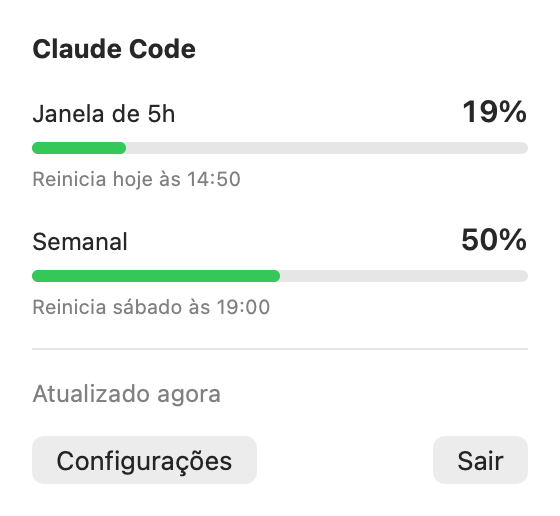
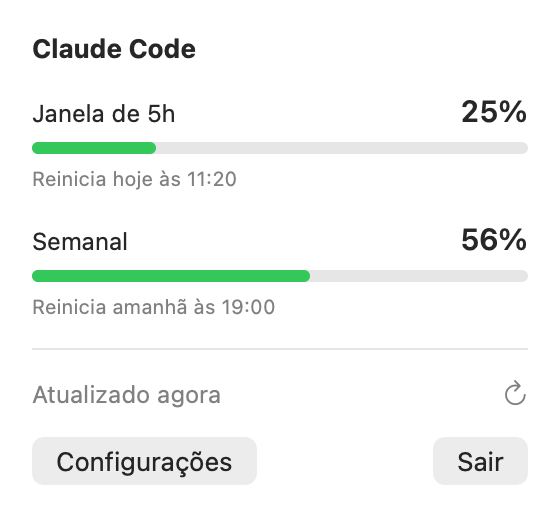
feat: adiciona botão Atualizar, erro da consulta e seção do servidor nas Configurações

diff --git a/Sources/UsageBar/Views/UsagePopover.swift b/Sources/UsageBar/Views/UsagePopover.swift
@@ -16,6 +16,9 @@ struct UsagePopover: View {
             if state.hasData {
                 WindowRow(title: "Janela de 5h", window: state.fiveHour, now: now)
                 WindowRow(title: "Semanal", window: state.sevenDay, now: now)
+            } else if store.isCheckingServer {
+                Label("Consultando o servidor…", systemImage: "hourglass")
+                    .foregroundStyle(.secondary)
             } else {
                 VStack(alignment: .leading, spacing: 6) {
                     Label("Sem dados ainda — use o Claude Code uma vez", systemImage: "hourglass")
@@ -29,15 +32,37 @@ struct UsagePopover: View {
 
             Divider()
 
-            if let updatedAt = state.updatedAt {
-                if state.isStale(at: now) {
-                    Label("Dados antigos (> 1h) · \(Format.updated(updatedAt, now: now).lowercased())",
-                          systemImage: "exclamationmark.triangle.fill")
-                        .foregroundStyle(.orange)
-                } else {
-                    Text(Format.updated(updatedAt, now: now))
-                        .foregroundStyle(.secondary)
+            HStack(alignment: .firstTextBaseline, spacing: 6) {
+                if let updatedAt = state.updatedAt {
+                    if state.isStale(at: now) {
+                        Label("Dados antigos (> 1h) · \(Format.updated(updatedAt, now: now).lowercased())",
+                              systemImage: "exclamationmark.triangle.fill")
+                            .foregroundStyle(.orange)
+                    } else {
+                        Text(Format.updated(updatedAt, now: now))
+                            .foregroundStyle(.secondary)
+                    }
                 }
+                Spacer(minLength: 0)
+                if store.isCheckingServer {
+                    ProgressView().controlSize(.small)
+                } else {
+                    Button { store.checkServer(force: true) } label: {
+                        Image(systemName: "arrow.clockwise")
+                    }
+                    .buttonStyle(.plain)
+                    .foregroundStyle(.secondary)
+                    .help("Atualizar: consultar o uso no servidor")
+                    .accessibilityLabel("Atualizar")
+                }
+            }
+            .fixedSize(horizontal: false, vertical: true)
+
+            if let error = store.serverError {
+                Label(error.message, systemImage: "exclamationmark.triangle")
+                    .font(.caption)
+                    .foregroundStyle(.secondary)
+                    .fixedSize(horizontal: false, vertical: true)
             }
 
             HStack {
@@ -52,6 +77,7 @@ struct UsagePopover: View {
         .font(.callout)
         .padding(16)
         .frame(width: 280)
+        .onAppear { store.checkServer() }
     }
 }
 

diff --git a/Sources/UsageBar/Views/SettingsView.swift b/Sources/UsageBar/Views/SettingsView.swift
@@ -36,13 +36,35 @@ struct SettingsView: View {
                 }
             }
 
+            Section("Consulta ao servidor") {
+                LabeledContent("Última consulta") {
+                    Text(store.state.serverCheckedAt.map { Format.ago($0, now: store.now) } ?? "Nenhuma ainda")
+                        .foregroundStyle(.secondary)
+                }
+                Text("A cada 5 min o app roda o /usage do Claude Code, que traz do servidor o uso real da conta, incluindo o da web. A consulta não gasta limite.")
+                    .font(.caption)
+                    .foregroundStyle(.secondary)
+                if let error = store.serverError {
+                    Text(error.message)
+                        .font(.caption)
+                        .foregroundStyle(.red)
+                        .textSelection(.enabled)
+                }
+                HStack {
+                    if store.isCheckingServer { ProgressView().controlSize(.small) }
+                    Spacer()
+                    Button("Atualizar agora") { store.checkServer(force: true) }
+                        .disabled(store.isCheckingServer)
+                }
+            }
+
             Section("Statusline do Claude Code") {
                 LabeledContent("Bridge") {
                     Label(bridgeInstalled ? "Instalado" : "Não instalado",
                           systemImage: bridgeInstalled ? "checkmark.circle.fill" : "xmark.circle")
                         .foregroundStyle(bridgeInstalled ? .green : .secondary)
                 }
-                Text("O bridge grava os dados de uso que o Claude Code envia à statusline e repassa tudo para a sua statusline atual, que continua aparecendo.")
+                Text("O bridge grava os dados de uso que o Claude Code envia à statusline, o que atualiza a barra a cada resposta entre uma consulta e outra. Ele repassa tudo para a sua statusline atual, que continua aparecendo.")
                     .font(.caption)
                     .foregroundStyle(.secondary)
                 HStack {

diff --git a/Sources/UsageBar/Formatting.swift b/Sources/UsageBar/Formatting.swift
@@ -8,17 +8,22 @@ enum Format {
     }
 
     static func updated(_ date: Date, now: Date) -> String {
+        "Atualizado \(ago(date, now: now))"
+    }
+
+    /// "agora", "há 5 min", "há 2 h" ou "há 3 dias".
+    static func ago(_ date: Date, now: Date) -> String {
         let seconds = max(0, now.timeIntervalSince(date))
         switch seconds {
         case ..<60:
-            return "Atualizado agora"
+            return "agora"
         case ..<3600:
-            return "Atualizado há \(Int(seconds / 60)) min"
+            return "há \(Int(seconds / 60)) min"
         case ..<86_400:
-            return "Atualizado há \(Int(seconds / 3600)) h"
+            return "há \(Int(seconds / 3600)) h"
         default:
             let days = Int(seconds / 86_400)
-            return "Atualizado há \(days) \(days == 1 ? "dia" : "dias")"
+            return "há \(days) \(days == 1 ? "dia" : "dias")"
         }
     }
 

diff --git a/Tests/UsageBarTests/FormattingTests.swift b/Tests/UsageBarTests/FormattingTests.swift
@@ -26,6 +26,12 @@ final class FormattingTests: XCTestCase {
         XCTAssertEqual(Format.updated(now + 10, now: now), "Atualizado agora", "relógio adiantado não gera tempo negativo")
     }
 
+    func testAgo() {
+        XCTAssertEqual(Format.ago(now - 30, now: now), "agora")
+        XCTAssertEqual(Format.ago(now - 5 * 60, now: now), "há 5 min")
+        XCTAssertEqual(Format.ago(now - 2 * 86_400, now: now), "há 2 dias")
+    }
+
     func testResetUsesFixtureTimes() {
         XCTAssertEqual(Format.reset(Date(timeIntervalSince1970: 1_792_086_600), now: now, calendar: calendar),
                        "hoje às 14:50")
